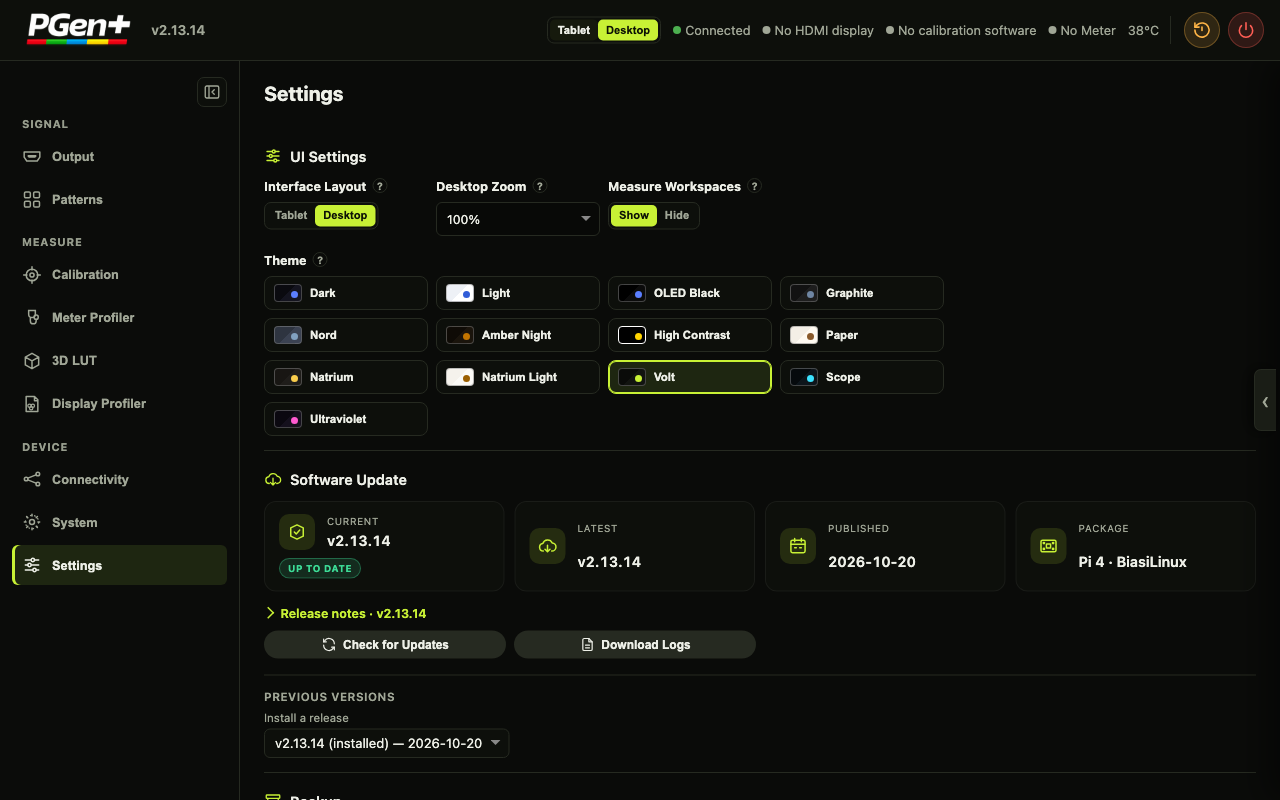
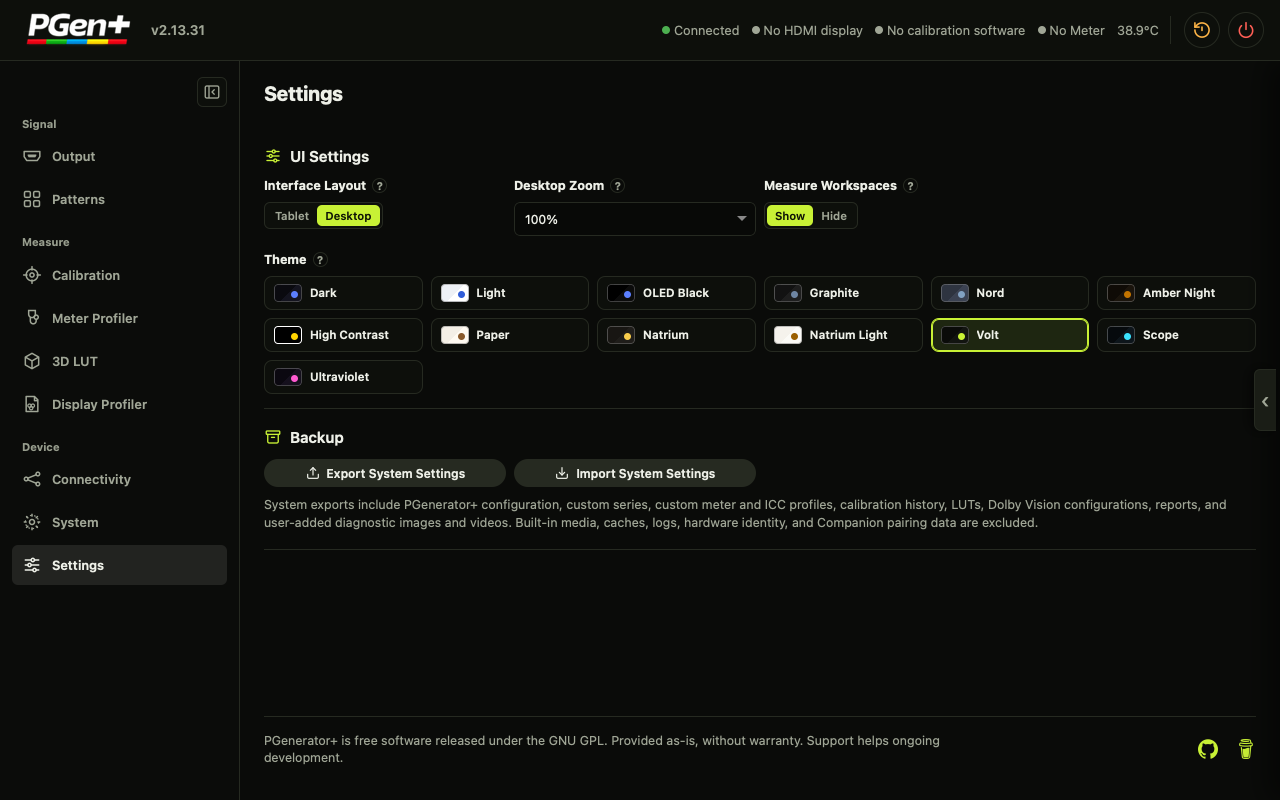
WebUI: Software Update in System on every layout
Software Update (with Download Logs and previous versions) is now the last
section of Device Info on Desktop too, as on phones and tablets since
2.13.31. Settings keeps UI Settings and Backup. The header's "Update
available" button opens System. README paths, workspace table and the
System/Settings screenshots follow.

diff --git a/usr/share/PGenerator/webui-body.html b/usr/share/PGenerator/webui-body.html
@@ -1800,7 +1800,7 @@ __PG_LOGO_DARK__
   <div id="meterProfileWorkspaceHost"></div>
  </div>
 
- <!-- Device Info -->
+ <!-- Device Info, with Software Update as its last section -->
  <div class="card span2 devinfo-card" data-widget="info" data-desktop-workspace="system" data-desktop-order="10" draggable="true">
   <h2><span class="drag-handle"><svg viewBox="0 0 24 24" width="14" height="14" aria-hidden="true" fill="currentColor"><circle cx="9" cy="6" r="1.6"/><circle cx="15" cy="6" r="1.6"/><circle cx="9" cy="12" r="1.6"/><circle cx="15" cy="12" r="1.6"/><circle cx="9" cy="18" r="1.6"/><circle cx="15" cy="18" r="1.6"/></svg></span>Device Info</h2>
   <!-- Vitals: live load, memory and SoC temperature (loadStats) -->
@@ -1854,6 +1854,31 @@ __PG_LOGO_DARK__
     </select>
    </div>
   </div>
+  <section class="card-section" id="updateCard" aria-labelledby="setTitle_update">
+   <div class="card-section-head"><h3 class="card-section-title" id="setTitle_update"><svg class="card-section-icon" viewBox="0 0 24 24" aria-hidden="true"><path d="M7 18a4.5 4.5 0 0 1-.6-8.96A6 6 0 0 1 17.6 8.3 4 4 0 0 1 17 18" fill="none" stroke="currentColor" stroke-width="1.8" stroke-linecap="round" stroke-linejoin="round"/><path d="M12 11v9M8.5 16.5 12 20l3.5-3.5" fill="none" stroke="currentColor" stroke-width="1.8" stroke-linecap="round" stroke-linejoin="round"/></svg>Software Update</h3></div>
+   <div id="updateContent" class="facts-host">
+    <div class="info-grid devinfo-facts update-facts">
+     <div class="info-item devinfo-fact"><div class="label">Current</div><div class="value" id="updateCurrent">-</div><span class="fact-chip" id="updateCurrentChip" hidden></span></div>
+     <div class="info-item devinfo-fact"><div class="label">Latest</div><div class="value" id="updateLatest">-</div></div>
+     <div class="info-item devinfo-fact"><div class="label">Published</div><div class="value" id="updatePublished">-</div></div>
+     <div class="info-item devinfo-fact"><div class="label">Package</div><div class="value" id="updateTarget">-</div></div>
+    </div>
+    <div id="updateStatus" class="update-status"></div>
+    <details class="update-notes" id="updateChangelogWrap" hidden><summary id="updateChangelogSummary">What’s new</summary><div id="updateChangelog"></div></details>
+    <div class="btn-grid btn-grid-lg" style="margin-top:10px">
+     <button class="btn btn-sm btn-primary ico-install" id="applyUpdateBtn" style="display:none" onclick="applyUpdate()">Install Update</button>
+     <button class="btn btn-sm btn-secondary ico-refresh" id="checkUpdateBtn" onclick="checkUpdate(true)">Check for Updates</button>
+     <button class="btn btn-sm btn-secondary ico-logs" id="submitLogsBtn" onclick="submitLogs()" title="Download a diagnostic report to attach to a GitHub issue">Download Logs</button>
+    </div>
+    <section class="update-section" id="releaseRow" style="display:none" aria-labelledby="releaseRowTitle">
+     <div class="update-section-title" id="releaseRowTitle">Previous versions</div>
+     <label class="update-field-label" for="releaseSelect">Install a release</label>
+     <div class="release-pick">
+      <select id="releaseSelect" data-pg-repick="1" onchange="onReleaseSelectChange()"></select>
+     </div>
+    </section>
+   </div>
+  </section>
  </div>
 
  <!-- Network: WiFi Client, WiFi Access Point and Bluetooth PAN in one card.
@@ -2007,11 +2032,8 @@ __PG_LOGO_DARK__
 
   __PG_LG_CARD__
 
- <!-- GPU Memory -->
- <!-- Software Update -->
-  <!-- Settings: UI Settings (browser-local, never sent to the device config),
-      Software Update and Backup in one card. On Tablet/phone Software Update
-      moves to the end of Device Info (pgPlaceUpdateForLayout). -->
+  <!-- Settings: UI Settings (browser-local, never sent to the device config)
+      and Backup in one card. Software Update sits in Device Info (System). -->
  <section class="card span2 settings-card" id="settingsCard" data-widget="settings" data-collapse-key="settings" data-desktop-workspace="settings" data-desktop-order="10" draggable="true">
   <h2><span class="drag-handle"><svg viewBox="0 0 24 24" width="14" height="14" aria-hidden="true" fill="currentColor"><circle cx="9" cy="6" r="1.6"/><circle cx="15" cy="6" r="1.6"/><circle cx="9" cy="12" r="1.6"/><circle cx="15" cy="12" r="1.6"/><circle cx="9" cy="18" r="1.6"/><circle cx="15" cy="18" r="1.6"/></svg></span>Settings</h2>
   <section class="card-section" id="uiSettingsCard" aria-labelledby="setTitle_ui">
@@ -2056,31 +2078,6 @@ __PG_LOGO_DARK__
       <button type="button" class="layout-switch-btn" data-measure-mode="hidden" aria-pressed="false" onclick="pgSetHideMeasure(true)">Hide</button>
      </div>
     </div>
-   </div>
-  </section>
-  <section class="card-section" id="updateCard" aria-labelledby="setTitle_update">
-   <div class="card-section-head"><h3 class="card-section-title" id="setTitle_update"><svg class="card-section-icon" viewBox="0 0 24 24" aria-hidden="true"><path d="M7 18a4.5 4.5 0 0 1-.6-8.96A6 6 0 0 1 17.6 8.3 4 4 0 0 1 17 18" fill="none" stroke="currentColor" stroke-width="1.8" stroke-linecap="round" stroke-linejoin="round"/><path d="M12 11v9M8.5 16.5 12 20l3.5-3.5" fill="none" stroke="currentColor" stroke-width="1.8" stroke-linecap="round" stroke-linejoin="round"/></svg>Software Update</h3></div>
-   <div id="updateContent" class="facts-host">
-    <div class="info-grid devinfo-facts update-facts">
-     <div class="info-item devinfo-fact"><div class="label">Current</div><div class="value" id="updateCurrent">-</div><span class="fact-chip" id="updateCurrentChip" hidden></span></div>
-     <div class="info-item devinfo-fact"><div class="label">Latest</div><div class="value" id="updateLatest">-</div></div>
-     <div class="info-item devinfo-fact"><div class="label">Published</div><div class="value" id="updatePublished">-</div></div>
-     <div class="info-item devinfo-fact"><div class="label">Package</div><div class="value" id="updateTarget">-</div></div>
-    </div>
-    <div id="updateStatus" class="update-status"></div>
-    <details class="update-notes" id="updateChangelogWrap" hidden><summary id="updateChangelogSummary">What’s new</summary><div id="updateChangelog"></div></details>
-    <div class="btn-grid btn-grid-lg" style="margin-top:10px">
-     <button class="btn btn-sm btn-primary ico-install" id="applyUpdateBtn" style="display:none" onclick="applyUpdate()">Install Update</button>
-     <button class="btn btn-sm btn-secondary ico-refresh" id="checkUpdateBtn" onclick="checkUpdate(true)">Check for Updates</button>
-     <button class="btn btn-sm btn-secondary ico-logs" id="submitLogsBtn" onclick="submitLogs()" title="Download a diagnostic report to attach to a GitHub issue">Download Logs</button>
-    </div>
-    <section class="update-section" id="releaseRow" style="display:none" aria-labelledby="releaseRowTitle">
-     <div class="update-section-title" id="releaseRowTitle">Previous versions</div>
-     <label class="update-field-label" for="releaseSelect">Install a release</label>
-     <div class="release-pick">
-      <select id="releaseSelect" data-pg-repick="1" onchange="onReleaseSelectChange()"></select>
-     </div>
-    </section>
    </div>
   </section>
   <section class="card-section" id="backupCard" aria-labelledby="setTitle_backup">

diff --git a/usr/share/PGenerator/webui-app.js b/usr/share/PGenerator/webui-app.js
@@ -5107,7 +5107,6 @@ function pgApplyLayout(options){
  uiSyncBodyScrollLock();
  meterSyncGreyscaleDesktopLayout();
  pgPlaceConnectivityForLayout();
- pgPlaceUpdateForLayout();
  pgSyncCardCollapseForLayout();
  pgUpdateLayoutControls();
  if(pgLayoutEffective==='desktop'){
@@ -5170,17 +5169,6 @@ function pgPlaceConnectivityForLayout(){
   }
  });
  pgScheduleTabletNavSync();
-}
-// Tablet/phone shows Software Update in System, as a section at the end of
-// Device Info; Desktop keeps it in Settings, before Backup.
-function pgPlaceUpdateForLayout(){
- const update=document.getElementById('updateCard');
- const info=document.querySelector('.dashboard > .card[data-widget="info"]');
- const backup=document.getElementById('backupCard');
- if(!update||!info||!backup) return;
- if(document.body.classList.contains('layout-desktop')){
-  if(update.nextElementSibling!==backup) backup.before(update);
- }else if(update.parentNode!==info) info.appendChild(update);
 }
 function meterSyncGreyscaleDesktopLayout(){
  const live=document.getElementById('meterLiveReading');
@@ -6110,14 +6098,14 @@ function pgWatchUpdateCard(){
  },{rootMargin:'0px 0px 100% 0px'});
  io.observe(card);
  // Once per page load, so the header shows an update without a visit to
- // Settings. Started after the page's own requests.
+ // System. Started after the page's own requests.
  setTimeout(()=>{ if(!_updateChecked) checkUpdate(false,true); },3000);
 }
 if(document.readyState==='loading') document.addEventListener('DOMContentLoaded',pgWatchUpdateCard);
 else pgWatchUpdateCard();
 function showUpdateCard(){
  document.getElementById('updateCard').style.display='';
- if(document.body.classList.contains('layout-desktop')) pgSelectDesktopWorkspace('settings');
+ if(document.body.classList.contains('layout-desktop')) pgSelectDesktopWorkspace('system');
  else pgTabletRevealWorkspaceOf(document.getElementById('updateCard'));
  document.getElementById('updateCard').scrollIntoView({behavior:'smooth'});
  if(!_updateChecked) checkUpdate();

diff --git a/README.md b/README.md
@@ -223,10 +223,10 @@ Next to the settings, **On the cable** shows what is actually sent (format, rang
 <td align="center"><sub>Playlists: the deck follows the TV remote; Start, duplicate or edit from the library</sub></td>
 </tr>
 <tr>
-<td valign="top"><img src="screenshots/webui-settings.png" alt="Settings workspace with the theme picker (Volt selected) and the Software Update tiles"/><br/><p align="center"><sub>Settings: 13 themes, OTA update and backup in one place</sub></p></td>
+<td valign="top"><img src="screenshots/webui-settings.png" alt="Settings workspace with the theme picker (Volt selected), the Measure switch and settings backup"/><br/><p align="center"><sub>Settings: 13 themes, layout and backup in one place</sub></p></td>
 </tr>
 <tr>
-<td colspan="2" valign="top"><img src="screenshots/webui-system.png" alt="System workspace: Device Info with CPU, memory and temperature meters and tiles for board, hostname, resolution, uptime, RAM and network, plus the GPU Memory and Scaling Type selects"/><br/><p align="center"><sub>System: CPU, memory and temperature at a glance, the device facts, and GPU memory and CPU Scaling Type set right in their tiles</sub></p></td>
+<td colspan="2" valign="top"><img src="screenshots/webui-system.png" alt="System workspace: Device Info with CPU, memory and temperature meters and tiles for board, hostname, resolution, uptime, RAM and network, plus the GPU Memory and Scaling Type selects, and Software Update below"/><br/><p align="center"><sub>System: CPU, memory and temperature at a glance, the device facts, GPU memory and CPU Scaling Type set right in their tiles, and the OTA update</sub></p></td>
 </tr>
 <tr>
 <td colspan="2" valign="top"><img src="screenshots/webui-selftest.png" alt="Signal self-test in Output: bit-exact in 10 of 10 modes, with link details and the drawn swatches per mode"/><br/><p align="center"><sub>Signal self-test, right below Display Settings: every mode read back from the scanout on a real Pi 4, bit-exact in 10 of 10</sub></p></td>
@@ -253,7 +253,7 @@ Next to the settings, **On the cable** shows what is actually sent (format, rang
    - Use a microSD card or USB stick of at least 8 GB.
 3. Boot the Pi and connect to it, using one of the methods below.
 4. Open **`http://pgenerator.local`** (or the Pi's IP address).
-5. Go to **Settings → Software Update → Check for Updates** (on a phone or tablet: **System → Software Update**) to move to the newest OTA release.
+5. Go to **System → Software Update → Check for Updates** to move to the newest OTA release.
 
 <details>
 <summary><b>Connection methods (Bluetooth PAN, Wi-Fi AP, Ethernet)</b></summary>
@@ -286,7 +286,7 @@ From then on the Pi follows this fork's releases. The update source is `usr/shar
 
 ### ⬆ Updating
 
-- **Web UI:** **Settings → Software Update → Check for Updates → Install Update.** On a phone or tablet the section is under **System**. The dialog shows the release notes and download progress, then restarts the service. The release dropdown also lets you reinstall the current release or roll back to an earlier one.
+- **Web UI:** **System → Software Update → Check for Updates → Install Update.** The dialog shows the release notes and download progress, then restarts the service. The release dropdown also lets you reinstall the current release or roll back to an earlier one.
 - **SSH** (`root` / `PGenerator!!$`):
 
   ```bash
@@ -367,9 +367,9 @@ Served on **port 80** at `http://pgenerator.local`. It has a **Desktop** layout 
 | **Meter Profiler** | Meter correction (CCSS) editor and preview |
 | **3D LUT · Display Profiler** | LUT handling, MHC2 / KDE HDR profile building |
 | **Connectivity** | Wi-Fi client, access point and Bluetooth in one Network card, LG TV control (pairing, AutoCal: greyscale, 3D LUT, HDR tone map, Shadow Fix) and the Resolve client |
-| **System** | Device info: CPU, memory and temperature with meters, plus board, hostname, resolution, uptime, RAM and the network interfaces; GPU memory (asks before the required reboot) and CPU **Scaling Type** (Performance recommended, applies at once) are set in their tiles. On a phone or tablet, Software Update and Download Logs sit here too, below the device info |
+| **System** | Device info: CPU, memory and temperature with meters, plus board, hostname, resolution, uptime, RAM and the network interfaces; GPU memory (asks before the required reboot) and CPU **Scaling Type** (Performance recommended, applies at once) are set in their tiles. Below the device info: Software Update (with notes, progress, rollback) and Download Logs |
 | **Live Information** (right-hand drawer) | Active signal, the infoframe decoder (AVI and DRM), the measured HDMI link depth and clock, and HDMI-CEC status |
-| **Settings** | Layout, zoom, **13 themes**, Show/Hide for the Measure workspaces, software update (with notes, progress, rollback) and Download Logs (on a phone or tablet both are under System), and settings backup and restore |
+| **Settings** | Layout, zoom, **13 themes**, Show/Hide for the Measure workspaces, and settings backup and restore |
 
 **Don't need the meter tools?** Settings → UI Settings → **Measure Workspaces → Hide** removes Calibration, Meter Profiler, 3D LUT and Display Profiler from the navigation, along with the meter status in the header. Saved measurements, profiles and LUTs are kept, and **Show** brings everything back. The choice is stored per browser.
 
